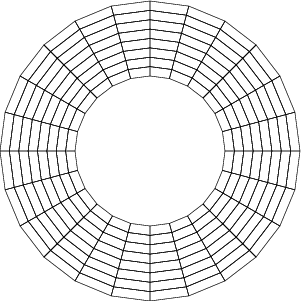
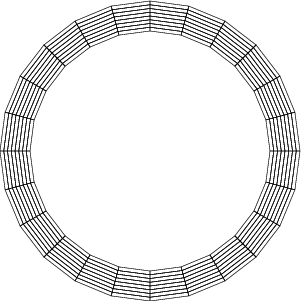
Significantly extend module on the manifold.
The new section describes the mesh smoothing algorithm in deal.II

Changed region(s): [[0.0, 0.0, 0.9867, 1.0]]

diff --git a/doc/doxygen/headers/manifold.h b/doc/doxygen/headers/manifold.h
@@ -133,7 +133,8 @@
  *  GridGenerator::hyper_shell (triangulation,
  *                              center, inner_radius, outer_radius,
  *                              10);
- *  const HyperShellBoundary<2> boundary_description(center);
+ *  const SphericalManifold<2> boundary_description(center);
+ *  triangulation.set_all_manifold_ids_on_boundary(0);
  *  triangulation.set_boundary (0, boundary_description);
  *
  *  triangulation.refine_global (3);
@@ -144,12 +145,15 @@
  *
  * The mesh looks better in that it faithfully reproduces the circular inner
  * and outer boundaries of the domain. However, it is still possible to
- * identify the original 10 cells by the kinks in the tangential lines. They
- * result from the fact that every time a cell is refined, new vertices on
- * interior lines are just placed into the middle of the existing line (the
- * boundary lines are handled differently because we have attached boundary
- * objects). In other words, they end up in places that may be in the geometric
- * middle of a straight line, but not on a circle around the center.
+ * identify 20 kinks in the tangential lines. They result from the fact that
+ * every time a cell is refined, new vertices on interior lines are just
+ * placed into the middle of the existing line (the boundary lines are handled
+ * differently because we have attached a manifold object). In the first
+ * refinement with 10 cells, we got improved points because both outer
+ * boundaries have provided a curved description according to the description
+ * on blending different manifolds below. In other words, the new points after
+ * the first refinement end up in places that may be in the geometric middle
+ * of a straight line, but not on a circle around the center.
  *
  * This can be remedied by assigning a manifold description not only to
  * the lines along the boundary, but also to the radial lines and cells (which,
@@ -165,6 +169,7 @@
  *                              center, inner_radius, outer_radius,
  *                              10);
  *  const SphericalManifold<2> boundary_description(center);
+ *  triangulation.set_all_manifold_ids_on_boundary(0);
  *  triangulation.set_manifold (0, boundary_description);
  *
  *  Triangulation<2>::active_cell_iterator
@@ -202,26 +207,50 @@
  *               outer_radius = 1.0;
  *  GridGenerator::hyper_shell (triangulation,
  *                              center, inner_radius, outer_radius,
- *                              4);    // four circumferential cells
+ *                              3);    // three circumferential cells
  *  const HyperShellBoundary<2> boundary_description(center);
- *  triangulation.set_boundary (0, boundary_description);
+ *  triangulation.set_all_manifold_ids_on_boundary(0);
+ *  triangulation.set_manifold (0, boundary_description);
  *
  *  triangulation.refine_global (3);
  * @endcode
  *
- * @image html hypershell-boundary-only-4.png ""
- *
- * Here, we create only four circumferential cells in the beginning,
- * and refining them leads to the mesh shown. Clearly, here we have
- * cells with bad aspect ratios.
- *
- * If we drive this further and start with a coarse mesh of only
- * three cells (which may be inappropriate here, since we know that it
- * is not sufficient, but may also be impossible to avoid for complex
- * geometries generated in mesh generators), then we obtain the following
- * mesh:
- *
  * @image html hypershell-boundary-only-3.png ""
+ *
+ * Here, we create only three circumferential cells in the beginning, and
+ * refining them leads to the mesh shown. Clearly, here we have cells with bad
+ * aspect ratios, despite the first refinement that puts the new point into
+ * the middle.
+ *
+ * If we drive this further and start with a coarse mesh of a much thinner rim
+ * between the radii 0.8 and 1.0 and still start with only three cells (which
+ * may be inappropriate here, since we know that it is not sufficient, but may
+ * also be impossible to avoid for complex geometries generated in mesh
+ * generators), we observe the following:
+ *
+ * @code
+ *  Triangulation<2> triangulation;
+ *
+ *  const Point<2> center (1,0);
+ *  const double inner_radius = 0.8,
+ *               outer_radius = 1.0;
+ *  GridGenerator::hyper_shell (triangulation,
+ *                              center, inner_radius, outer_radius,
+ *                              3);    // three circumferential cells
+ *  const SphericalManifold<2> boundary_description(center);
+ *  triangulation.set_all_manifold_ids(0);
+ *  triangulation.set_manifold (0, boundary_description);
+ *
+ *  Triangulation<2>::active_cell_iterator
+ *    cell = triangulation.begin_active(),
+ *    endc = triangulation.end();
+ *  for (; cell!=endc; ++cell)
+ *    cell->set_all_manifold_ids (0);
+ *
+ *  triangulation.refine_global (3);
+ * @endcode
+ *
+ * @image html hypershell-boundary-thin-3.png ""
  *
  * This mesh neither has the correct geometry after refinement, nor do
  * all cells have positive area as is necessary for the finite element
@@ -233,12 +262,13 @@
  *  Triangulation<2> triangulation;
  *
  *  const Point<2> center (1,0);
- *  const double inner_radius = 0.5,
+ *  const double inner_radius = 0.8,
  *               outer_radius = 1.0;
  *  GridGenerator::hyper_shell (triangulation,
  *                              center, inner_radius, outer_radius,
  *                              3);    // three circumferential cells
  *  const SphericalManifold<2> boundary_description(center);
+ *  triangulation.set_all_manifold_ids(0);
  *  triangulation.set_manifold (0, boundary_description);
  *
  *  Triangulation<2>::active_cell_iterator
@@ -269,6 +299,93 @@
  *
  * @see @ref GlossManifoldIndicator "Glossary entry on manifold indicators"
  *
+ * <h3>Computing the weights for combining different manifold descriptions</h3>
+ *
+ * In a realistic application, it happens regularly that different manifold
+ * descriptions need to be combined. The simplest case is when a curved
+ * description is only available for the boundary but not for the interior of
+ * the computational domain. The manifold description for a ball also falls
+ * into this category, as it needs to combine a spherical manifold at the
+ * circular part with a straight-sided description in the center of the domain
+ * where the spherical manifold is not valid.
+ *
+ * In general, the process of blending in deal.II is achieved by the so-called
+ * transfinite interpolation. Its formula 2D is, for example, described on
+ * <a href="https://en.wikipedia.org/wiki/Transfinite_interpolation">
+ * Wikipedia</a>.  Given a point $(u,v)$ on the chart, the image of this point
+ * in real space is given by
+ * @f{align*}{
+ * \mathbf S(u,v) &= (1-v)\mathbf c_0(u)+v \mathbf c_1(u) + (1-u)\mathbf c_2(v) + u \mathbf c_3(v) \\
+ * &\quad - \left[(1-u)(1-v) \mathbf x_0 + u(1-v) \mathbf x_1 + (1-u)v \mathbf x_2 + uv \mathbf x_3 \right]
+ * @f}
+ * where $\bf x_0, \bf x_1, \bf x_2, \bf x_3$ denote the four bounding vertices
+ * bounding the image space and $\bf c_0, \bf c_1, \bf c_2, \bf c_3$ are the
+ * four curves describing the lines of the cell.
+ *
+ * If we want to find the center of the cell according to the manifold (that
+ * is also used when the grid is refined), we want to evaluate this formula in
+ * the point $(u,v) = (0.5, 0.5)$. In that case, $\mathbf c_2(0.5)$ is the
+ * position of the midpoint of the lower face (indexed by 2 in deal.II's
+ * ordering) that is derived from its own manifold, $\mathbf c_1(0.5)$ is the
+ * position of the midpoint of the upper face (indexed by 3 in deal.II),
+ * $\mathbf c_2(0.5)$ is the midpoint of the face on the left (indexed by 0),
+ * and $\mathbf c_3(0.5)$ is the midpoint of the right face. In this formula,
+ * the weights equate to $\frac{\displaystyle 1}{\displaystyle 2}$ for the
+ * four midpoints in the faces and to $-\frac{\displaystyle 1}{\displaystyle
+ * 4}$ for the four vertices. These weights look weird at first sight because
+ * the vertices enter with negative weight but the mechanism does what we
+ * want: In case of a cell with curved description on two opposite faces but
+ * straight lines on the other two faces, the negative weights of -1/4 in the
+ * vertices balance with the center of the two straight lines in radial
+ * direction that get weight 1/2. Thus, the average is taken over the two
+ * center points in curved direction, exactly placing the new point in the
+ * middle.
+ *
+ * In three spatial dimensions, the weights are +1/2 for the face midpoints,
+ * -1/4 for the line mid points, and +1/8 for the vertices, again balancing
+ * the different entities. In case all the surrounding of a cell is straight,
+ * the formula again reduces to weight 1/8 on the eight vertices.
+ *
+ * In the MappingQGeneric class, a generalization of this concept to the
+ * support points of the polynomial grid representation, the nodes of the
+ * Gauss-Lobatto quadrature, is implemented by evaluating the boundary curves
+ * in the respective points $(u_i,v_i)$ of the Gauss-Lobatto points. The
+ * weights have been verified to yield optimal convergence rates $\mathcal
+ * O(h^{k+1})$ also for very high polynomial degrees, say $k=10$.
+ *
+ * In literature, also other boundary descriptions are used. Indeed, before
+ * version 9.0 deal.II used something called Laplace smoothing where the
+ * weights that are applied to the nodes on the circumference to get the
+ * position of the interior nodes are determined by solving a Laplace equation
+ * on the unit element. However, this did lead to boundary layers close to the
+ * curved description, i.e., singularities in the higher derivatives of the
+ * mapping from unit to real cell.
+ *
+ * For example, the above case with only 3 circumferential cells leads to the
+ * following mesh with Laplace smoothing rather than the interpolation from
+ * the boundary (which may be inappropriate here, since we know that it is not
+ * sufficient, but may also be impossible to avoid for complex geometries
+ * generated in mesh generators):
+ *
+ * @image html hypershell-boundary-only-3-old.png ""
+ *
+ * To use a more practical example, consider the refinement of a ball with a
+ * SphericalManifold attached to the spherical surface. The Laplace smoothing
+ * gives the following rather poor mesh:
+ *
+ * @image html hyperball-mesh-smoothing-laplace.png ""
+ *
+ * If we, instead, use the weights derived from transfinite interpolation, the
+ * situation is considerably improved:
+ *
+ * @image html hyperball-mesh-smoothing-interpolate.png ""
+ *
+ * Of course, one could get even better meshes by applying the
+ * TransfiniteInterpolationManifold to the whole domain except the boundary
+ * where SphericalManifold is attached, as shown by the figures in that class,
+ * but in principle, the mesh smoothing implemented in deal.II is as good as
+ * it can get from a boundary description alone.
+ *
  * @ingroup grid
- * @author Luca Heltai, 2013
+ * @author Luca Heltai, 2013, Martin Kronbichler, 2017
  */
